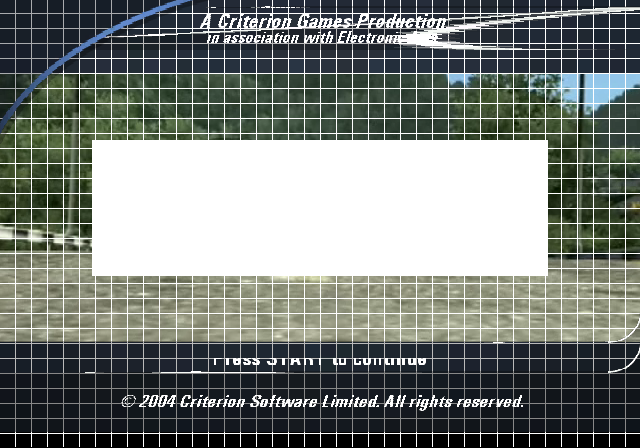
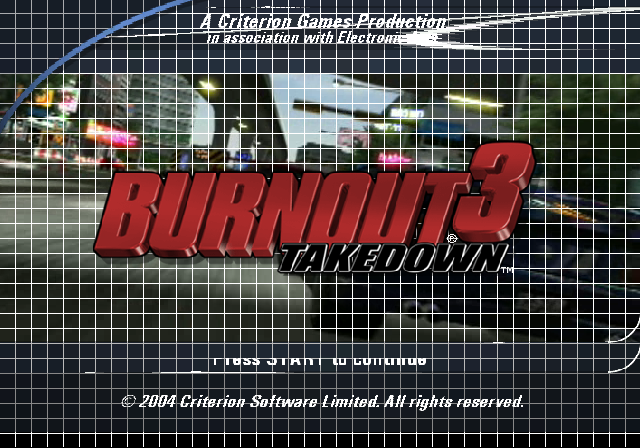
Drive the frontend with a real pad: title screen to race load
With a USB pad on the toolkit's OHCI model the title now walks its own
frontend -- profile prompt, name keyboard, save prompt, main menu,
Single Event, race options, vehicle select -- and loads a race, where
RenderWare's frame begin spins on a corrupted priority list (recorded
in docs/boot.md as the next thing).

- main.c: RECOMP_USB on by default; the hang sampler runs for the life
  of the process, resumes a thread before printing (it deadlocked on
  stderr), walks busy threads' stacks, and dumps BO3_PEEK addresses.
- CMakeLists: /Z7 on the runtime libraries so samples name file:line.
- seeds: the XID class driver's AddDevice/RemoveDevice and siblings,
  reachable only through XPP's class-driver table, plus the input
  report completion callback.
- docs/boot.md: findings 10-16 and how to drive the title headless
  with RECOMP_PAD_LIVE; README status and screenshots.

Needs the xboxrecomp branches listed in docs/boot.md (local
work/bo3-integration merges them).

diff --git a/src/game/main.c b/src/game/main.c
@@ -127,6 +127,24 @@ static void print_guest_stack(void)
     fprintf(stderr, "\n");
 }
 
+/* BO3_PEEK=va[,va...]: dump 64 bytes of guest memory at each address, from
+ * the fault report and from each hang sample. */
+static void peek_guest_memory(void)
+{
+    const char *p = getenv("BO3_PEEK");
+    while (p && *p && g_xbox_mem_offset) {
+        char *end;
+        uint32_t va = (uint32_t)strtoul(p, &end, 16);
+        const uint32_t *m = (const uint32_t *)((uintptr_t)g_xbox_mem_offset + va);
+        int k;
+        fprintf(stderr, "  peek %08X:", va);
+        for (k = 0; k < 16; k++)
+            fprintf(stderr, "%s%08X", (k % 8) ? " " : "\n    ", m[k]);
+        fprintf(stderr, "\n");
+        p = (*end == ',') ? end + 1 : NULL;
+    }
+}
+
 /* The emulated MCPX APU answers its own registers. */
 bool apu_hook_handle_mmio(PCONTEXT ctx, uintptr_t fault_addr,
                           uint32_t fault_xbox_va, int is_write);
@@ -184,26 +202,12 @@ static LONG CALLBACK veh_handler(PEXCEPTION_POINTERS ep)
                     "              esp=%08X seh_ebp=%08X esi=%08X edi=%08X\n",
             g_eax, g_ecx, g_edx, g_ebx, g_esp, g_seh_ebp, g_esi, g_edi);
     print_guest_stack();
-    /* BO3_PEEK=va[,va...]: dump 64 bytes of guest memory at each address. */
-    {
-        const char *p = getenv("BO3_PEEK");
-        while (p && *p && g_xbox_mem_offset) {
-            char *end;
-            uint32_t va = (uint32_t)strtoul(p, &end, 16);
-            const uint32_t *m = (const uint32_t *)((uintptr_t)g_xbox_mem_offset + va);
-            int k;
-            fprintf(stderr, "  peek %08X:", va);
-            for (k = 0; k < 16; k++)
-                fprintf(stderr, "%s%08X", (k % 8) ? " " : "\n    ", m[k]);
-            fprintf(stderr, "\n");
-            p = (*end == ',') ? end + 1 : NULL;
-        }
-    }
+    peek_guest_memory();
     fflush(stderr);
     return EXCEPTION_CONTINUE_SEARCH;
 }
 
-/* RECOMP_HANG_WATCHDOG=<seconds>: sample every thread's host RIP four times
+/* RECOMP_HANG_WATCHDOG=<seconds>: sample every thread's host RIP every N seconds
  * and name the generated function each is in. A spin shows up as the same
  * symbol with the indirect-call count flat, which is what separates a hang
  * from something merely slow. Ported from hl2/src/game/main.c. */
@@ -235,15 +239,42 @@ static void sample_all_threads(void)
                 busy = (((ULONGLONG)k.dwHighDateTime << 32 | k.dwLowDateTime) +
                         ((ULONGLONG)u.dwHighDateTime << 32 | u.dwLowDateTime)) / 10000;
             memset(&ctx, 0, sizeof(ctx));
-            ctx.ContextFlags = CONTEXT_CONTROL;
+            ctx.ContextFlags = CONTEXT_FULL;
+            /* Resume before printing: a thread suspended while holding the
+             * CRT's stderr lock deadlocks the sampler's own fprintf, which is
+             * exactly what heavy kernel logging makes likely. The stack of a
+             * busy thread is walked while it is suspended and printed after. */
             if (SuspendThread(th) != (DWORD)-1) {
-                if (GetThreadContext(th, &ctx)) {
+                BOOL got = GetThreadContext(th, &ctx);
+                DWORD64 frames[10];
+                int nframes = 0;
+                if (got && busy > 10000) {
+                    STACKFRAME64 sf;
+                    CONTEXT walk = ctx;
+                    memset(&sf, 0, sizeof sf);
+                    sf.AddrPC.Offset = ctx.Rip;    sf.AddrPC.Mode = AddrModeFlat;
+                    sf.AddrFrame.Offset = ctx.Rbp; sf.AddrFrame.Mode = AddrModeFlat;
+                    sf.AddrStack.Offset = ctx.Rsp; sf.AddrStack.Mode = AddrModeFlat;
+                    while (nframes < 10
+                        && StackWalk64(IMAGE_FILE_MACHINE_AMD64, GetCurrentProcess(),
+                                       th, &sf, &walk, NULL,
+                                       SymFunctionTableAccess64,
+                                       SymGetModuleBase64, NULL)
+                        && sf.AddrPC.Offset)
+                        frames[nframes++] = sf.AddrPC.Offset;
+                }
+                ResumeThread(th);
+                if (got) {
+                    int f;
                     fprintf(stderr, "  tid %-6lu cpu %6llums ",
                             (unsigned long)te.th32ThreadID,
                             (unsigned long long)busy);
                     print_host_symbol((void *)(uintptr_t)ctx.Rip);
+                    for (f = 1; f < nframes; f++) {
+                        fprintf(stderr, "      <- ");
+                        print_host_symbol((void *)(uintptr_t)frames[f]);
+                    }
                 }
-                ResumeThread(th);
             }
             CloseHandle(th);
         } while (Thread32Next(snap, &te));
@@ -257,7 +288,7 @@ static DWORD WINAPI hang_watchdog(LPVOID arg)
     unsigned long long prev = 0;
     int sample;
 
-    for (sample = 1; sample <= 4; sample++) {
+    for (sample = 1; ; sample++) {
         Sleep(seconds * 1000);
         fprintf(stderr, "\n[HANG] sample %d after %us, indirect calls %llu (+%llu)\n",
                 sample, sample * seconds,
@@ -265,6 +296,7 @@ static DWORD WINAPI hang_watchdog(LPVOID arg)
                 (unsigned long long)(g_icall_count - prev));
         prev = g_icall_count;
         sample_all_threads();
+        peek_guest_memory();
         fflush(stderr);
     }
     return 0;
@@ -314,6 +346,11 @@ int main(int argc, char **argv)
         _putenv_s("RECOMP_AC97_READY", "1");
     if (!getenv("RECOMP_APU_DSP_ACK"))
         _putenv_s("RECOMP_APU_DSP_ACK", "0x825F8810");
+    /* The pad. Without the USB controller model there is no way past
+     * "Press START"; with it the host's XInput pad (or RECOMP_PAD_SCRIPT /
+     * RECOMP_PAD_LIVE) drives the title's own XPP driver. */
+    if (!getenv("RECOMP_USB"))
+        _putenv_s("RECOMP_USB", "1");
 
     if (!load_xbe(path, &xbe_data, &xbe_size))
         return 1;

diff --git a/docs/boot.md b/docs/boot.md
@@ -63,9 +63,9 @@ another dispatch went unresolved. The fix belongs in the lifter, which now
 lifts those tables as local switches (#7). A seed the tool marks as an alias
 should be checked against the function it lands in before it is kept.
 
-## Where it stands
+## The boot sequence
 
-Boot sequence, all from the title's own code:
+All of it comes from the title's own code:
 
 ```
 ovid\englis30.xmv    EA intro
@@ -74,6 +74,53 @@ ovid\Titles30.xmv    title sequence
 tracks\_femain.rws + tracks\_FEMain.xmv   "Press START to continue", attract video behind it
 ```
 
-It idles there. Six minutes at the title screen loaded nothing further. The
-Burnout 3 logo draws as a white box because the software rasteriser does not
-decode that texture's format yet.
+## Past the title screen: the pad, the menus, a race
+
+With a controller the title walks its own frontend: the profile prompt, the
+name keyboard, "save your profile?", the main menu, Single Event, race
+options and vehicle select, then the takedown tutorial and the race load.
+
+![Profile prompt](screenshots/boot_profile_prompt.png)
+![Main menu](screenshots/menu_main.png)
+![Single Event](screenshots/menu_single_event.png)
+![Vehicle select](screenshots/menu_vehicle_select.png)
+
+### Driving it with no one at the desk
+
+```
+RECOMP_PAD_LIVE=pad.txt RECOMP_PB_EXEC=1 RECOMP_FB_DUMP=f RECOMP_PB_REPORT_MS=2000 ./bin/burnout3.exe
+echo start:1200 >> pad.txt       # pressed as soon as it is read
+echo down:300  >> pad.txt        # short: a held d-pad auto-repeats
+```
+
+`RECOMP_PAD_LIVE` presses each line appended to the file; lines read together
+fire one after another. `RECOMP_PAD_SCRIPT` takes a fixed timeline instead,
+but how long a screen takes to appear under the software rasteriser varies
+too much for timelines to hit menus reliably. Hold presses for about a second,
+because the title polls its pad only a few times a second while rasterising.
+A d-pad press held that long auto-repeats, so keep those short. `RECOMP_USB` is
+on by default in `main.c`.
+
+### What stood between "Press START" and the race
+
+| # | Symptom | Cause | Fix |
+|---|---|---|---|
+| 10 | Logo and header art are white boxes | P8 (palettised) textures were unsupported; the palette is `SET_TEXTURE_PALETTE`, 0x1B20 | toolkit `feat/pb-exec-p8` |
+| 11 | With USB on, the boot parks at `LocalCache00.bin`; one port interrupt, no enumeration | The OHCI model read the driver's descriptor addresses (physical) as low RAM rather than the contiguous window | toolkit `fix/ohci-physical-descriptors` |
+| 12 | Enumeration only worked when logging slowed the title | XPP owns physical page 0 (a private arena ending at 0x80001000); the contiguous allocator gave that page to XAPI's launch data | toolkit `fix/contig-skip-page-zero` |
+| 13 | Enumerated but never attached | The XID class driver's AddDevice (0x00364C40) and three siblings are only reachable through the class-driver table at 0x00362AF4 | seeds in `config/seed_functions.json` |
+| 14 | Frozen after the profile screens | Waiting for a sound to finish (`IDirectSoundBuffer::GetStatus`); the APU model never raised its interrupt and read voice memory as low RAM | toolkit `fix/apu-bus-and-irq` |
+| 15 | Input dies in every sub-menu | A rumble `SET_REPORT` on the control pipe overwrote the input report's completion in the done queue | toolkit, one done queue per pass |
+| 16 | Pad polled twice a second, then a freeze at vehicle select | Host-run ISRs and DPCs did not restore IRQL; `KPCR.Irql` (fs:[0x24]) was never written, so DirectSound's DPC took a critical section; the APU frame thread starved the title of its lock and could spin on a voice producing no samples | toolkit: IRQL dispatcher epilogue, KPCR publish, APU lock yield, underrun guard |
+
+## Where it stands
+
+The race loads (traffic vehicles, `Intro.kfs`, `tracks\US\C3_V1\streamed.dat`)
+and then RenderWare's frame begin (`sub_001F5810` → `sub_001FC130`) spins
+inserting a node into its sorted priority list at 0x0041B850. The compare
+lifting reads correctly, so the list's next/prev links disagree: the list is
+corrupted, cause not yet found.
+
+Known rendering gaps under the software rasteriser: some header text textures
+still come out white, the vehicle preview (render to texture) is noise, and
+option values on the race options screen do not draw.

diff --git a/README.md b/README.md
@@ -7,13 +7,15 @@ This project takes the original Xbox binary of **Burnout 3: Takedown** (2004, Cr
 > **Status (branch `feat/xboxrecomp-boot`): alpha.** The build now runs on the
 > shared [xboxrecomp](https://github.com/sp00nznet/xboxrecomp) runtime, the way
 > `hl2` does. It has no hand-written menus, renderers or game-state overrides.
-> From its real entry point the title plays the EA and Criterion intros and
-> reaches its own "Press START" screen with the attract video behind it. See
-> [docs/boot.md](docs/boot.md) for what it took and how to run it. Everything
-> below this note describes the earlier in-tree fork. It is kept for history
-> and is not what this branch builds.
+> From its real entry point the title plays its intros, takes a real (or
+> scripted) pad through its own profile screens, main menu, Single Event and
+> vehicle select, and loads a race, where it currently stalls in RenderWare.
+> See [docs/boot.md](docs/boot.md) for what it took and how to run it.
+> Everything below this note describes the earlier in-tree fork. It is kept
+> for history and is not what this branch builds.
 
 ![Burnout 3's own title screen, reached from the XBE entry point](docs/screenshots/boot_title_press_start.png)
+![Its own main menu, driven through its own USB pad driver](docs/screenshots/menu_main.png)
 
 ![Title intro video playing through the boot sequence](docs/screenshots/title.png)
 ![Intro video - racing footage from the original XMV videos](docs/screenshots/introvideo.png)
